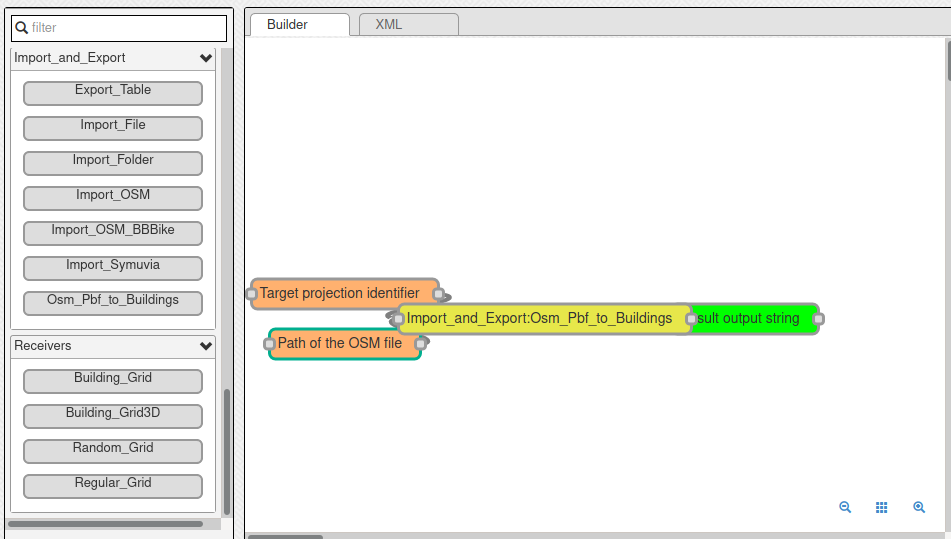
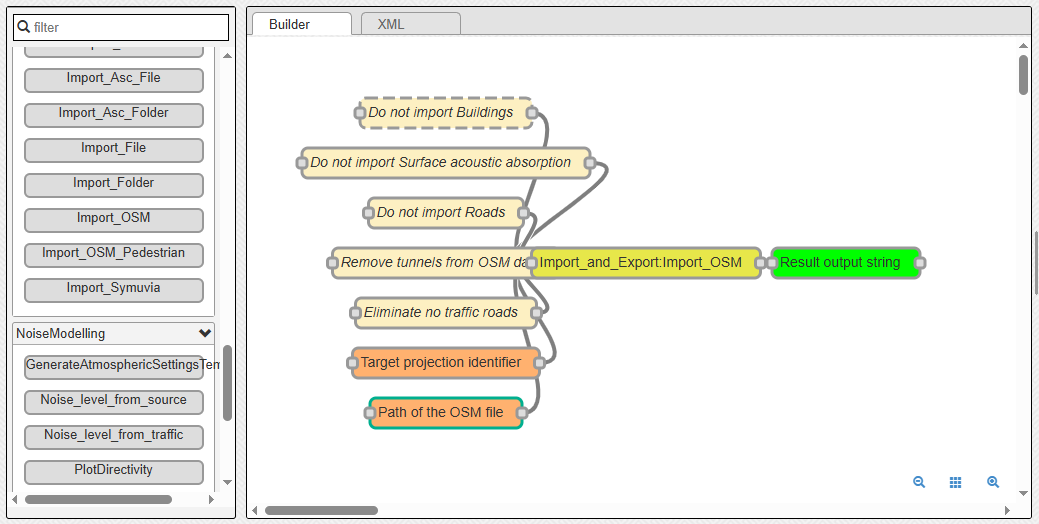
Update Matsim tutorial

Changed region(s): [[0.0, 0.0, 1.0, 1.0]]

diff --git a/Docs/Matsim_Tutorial.rst b/Docs/Matsim_Tutorial.rst
@@ -9,9 +9,9 @@ In this tutorial we will learn how to import the output of a successful MATSim s
 The idea is to use the traffic data from MATSim for NoiseModelling road noise emission.
 Then we will leverage the fact that MATSim is a multi-agent simulator. We will import MATSim agent's positions to calculate their noise exposition throughout the simulated day.
 
-For this tutorial, we'll look into a simulation of the `island in the center of Nantes`_, the 6th most populated city in France.
+For this tutorial, we'll look into a simulation of a small part of the `center of Nantes`_, the 6th most populated city in France.
 
-.. _island in the center of Nantes: https://www.openstreetmap.org/way/157597537
+.. _the center of Nantes: https://www.openstreetmap.org/way/45178361
 
 Prerequisites
 ~~~~~~~~~~~~~~~~~
@@ -25,29 +25,32 @@ Prerequisites
 The data
 ~~~~~~~~~~~~~~~
 
-You can download and unzip the data in any folder from here : https://github.com/Universite-Gustave-Eiffel/NoiseModelling/releases/download/v3.3.1/scenario_matsim.zip
+You can download and unzip the data in any folder from here : https://github.com/Symexpo/matsim-noisemodelling/releases/download/v5.0.0/scenario_matsim.zip
 
 The data folder should contain the following files :
 
-- ``nantes_ile.osm.pbf`` : the Openstreetmap data of the area. We'll use it to import buildings into NoiseModelling.
-- ``network.csv`` : A file containing the 'true' geometries of the road segments (called "links" in MATSim)
+- ``nantes_mini.osm.pbf`` : the Openstreetmap data of the area. We'll use it to import buildings into NoiseModelling.
+- ``detailed_network.csv`` : A file containing the 'true' geometries of the road segments (called "links" in MATSim)
 - ``output_events.xml.gz`` : A file containing the list of MATSim events from the simulation.
 - ``output_facilities.xml.gz`` : A file containing the list of facilities, the agent's activity locations.
 - ``output_network.xml.gz`` : A file containing the MATSim road network, a list of nodes and links.
-- ``output_plans.xml.gz`` : A file containing the list of agents and their final schedule, or plan.
+- ``output_plans.xml.gz`` : A file containing the list of agents and their final planned schedule.
+- ``output_experienced_plans.xml.gz`` : A file containing the list of agents and their final experienced schedule wich may differ from the inital planned one.
+- ``output_persons.csv.gz`` : A file containing the simple list of agents and some of there socioeconomic characteristics
 
 Step 1 : Import Buildings
 ~~~~~~~~~~~~~~~~~~~~~~~~~~~~~~~~~~~~~~~
 
 The first thing we're going to do is to import buildings.
-We use the ``Import_OSM`` WPS block to do that. Simply put the ``nantes_ile.osm.pbf`` path in the 'pathFile' input and set the 'SRID' input to `2154`_ *(which is the EPSG code for the french regulatory system)*.
+We use the ``Import_OSM`` WPS block to do that. There are several options. Put the ``nantes_mini.osm.pbf`` path in the 'pathFile' input and set the 'SRID' input to `2154`_ *(which is the EPSG code for the french regulatory system)*.
+Since we're only interested in buildings, you can also check the ``Do not import roads`` option as well as the ```Do not import Surface acoustic absorption`` option.
 
 .. _2154: https://epsg.io/2154
 
 .. figure:: images/matsim/osm_pbf_wps.png
    :align: center
 
-You should end up with a ``BUILDINGS`` table containing the island buildings.
+You should end up with a ``BUILDINGS`` table containing the city center buildings.
 
 .. figure:: images/matsim/buildings_table.png
    :align: center
@@ -61,28 +64,26 @@ To do that, we use the ``Traffic_From_Events`` WPS block.
 The mandatory inputs are :
 
 - ``folder`` : the path of the MATSim folder, here it is where you put the content of the ``scenario_matsim.zip`` file
-- ``timeSlice`` : wich represents the time period you want to aggregate the traffic data over. Here let's use the "quarter" option.
+
+An important option is ``The size of time bins in seconds`` which represents the time period you want to aggregate the traffic data over. Here let's use 900 to get data every 15 minutes.
 
 One optional but very important input is the ``Network CSV`` file path. The idea is that when the MATSim scenario was run, the link geometries were simplified to save computation time.
 This simplification of roads geometry is a bad thing for NoiseModelling since we take buidlings into account (simplified links can pass through buildings) and since source-receiver distance has a big impact on noise levels.
 That's why the ``network.csv`` file is given with the other data files. It contains the "real" geometry of links before MATSim simplification process (FYI, This is obtained by setting the 'outputDetailedLinkGeometryFile' option to a file name in the ``pt2matsim`` config file).
 
 An other important parameter is the ``populationFactor``. This corresponds to the downscaling factor that was used to generate the list of agents. Typically, this list of agents is generated based on the available census and survey data for an administrative area.
-Here, for our use case, the MAtsim scenario and it's agents were generated by using only 1% of the area total population (that is a population factor of 0.01).
+Here, for our use case, the Matsim scenario and it's agents were generated by using only 0,1% of the area total population (that is a population factor of 0.001).
 
 You can explore the other options by reading their descriptions. Here we are going to set them as follows:
 
-- Network CSV file: ``/path/to/your/scenario_matsim/network.csv``
-- Export additionnal traffic data ? : ``true``
-- Calculate All vehicles noise source ?: ``true``
-- Path of the matsim output folder: ``/path/to/your/scenario_matsim``
-- populationFactor: ``0.01``
-- Time Quantification: ``quarter``
+- Network CSV file: ``/path/to/your/scenario_matsim/detailed_network.csv``
+- Export additional traffic data ? : ``true``
+- Path of the Matsim output folder: ``/path/to/your/scenario_matsim``
+- populationFactor: ``0.001``
+- The size of time bins in seconds: ``900``
 - outTableName: "" (not set, use default)
 - Skip unused links ?: ``true``
 - Projection identifier: ``2154``
-- ignoreAgents: "" (not set)
-
 
 .. figure:: images/matsim/traffic_events_wps.png
    :align: center
@@ -132,7 +133,7 @@ Let's calculate all the receivers around our buildings using the ``Building_Grid
 
 - Buildings table table : ``BUILDINGS``
 - Distance between receivers : ``5.0``
-- height : ``4.0``
+- Height : ``4.0``
 
 That will place receviers around all the buildings, at 4 meter high and 5 meters apart.
 
@@ -162,8 +163,8 @@ In the end we want to have a noise map every 15 minutes (96 maps in total). If w
 
 So the process is as follows :
 
-1. we generate a SOURCE table, using the ``MATSIM_ROADS`` table.
-2. We use that table as input of the ``Noise_level_from_source`` WPS bloc and setting the ``confExportSourceId`` input paramter.
+1. we use the ``MATSIM_ROADS`` table as a SOURCE table. It only contains geometries, without any power levels, so the ``Noise_level_from_source`` bloc will compute acoustic attenuation by virtually attributing a power level of 0dB for every road link.
+2. We use the ``Noise_level_from_source`` WPS bloc and setting the ``confExportSourceId`` input paramter.
 
 The ``confExportSourceId`` parameter will actually ouput, for every recevier, the list of sources that contribute to the resulting levels, with the source-receiver noise attenuation.
 
@@ -174,7 +175,7 @@ Calculate the attenuation matrix
 
 Let's use the previously generated table to launch our propagation calculation.
 
-As explained before, we'll use the Noise_level_from_source WPS bloc with the 'confExportSourceId' parameter enabled.
+As explained before, we'll use the ``Noise_level_from_source`` WPS bloc with the ``Separate receiver level by source identifier`` parameter enabled.
 For more details about the different parameters, browse the NoiseModelling general documentation.
 
 The parameters we will use are the following :
@@ -203,7 +204,7 @@ Step 6 : Calculate Noise Maps
 ~~~~~~~~~~~~~~~~~~~~~~~~~~~~~~~~~~~~~~~~~~~~~~
 
 We have noise power levels every 15 minutes in the ``MATSIM_ROADS_LW`` table, and a source-receiver noise attenuation matrix in the ``RECEIVERS_LEVEL`` table.
-We just need to combine the two to get receivers noise levels, noise maps, every 15 minutes.
+We just need to combine the two to get receivers noise levels every 15 minutes.
 
 This is the purpose of the ``Noise_From_Attenuation_Matrix_MatSim`` WPS bloc.
 We just have set the right tables as input as follows :
@@ -212,10 +213,11 @@ We just have set the right tables as input as follows :
 - Output table name: ``RESULT_GEOM``
 - Table name of the MATSIM table containing the roads LW stats per timeBin: ``MATSIM_ROADS_LW``
 - Table name of the MATSIM table containing the roads geometries: ``MATSIM_ROADS``
+- Table name of the MATSIM table containing the receivers: ``ACTIVITY_RECEIVERS``
 
-.. figure:: images/matsim/noise_map_wps.png
+.. figure:: images/matsim/noise_from_attenuation_wps.png
    :align: center
-S
+
 It takes some time but in the end you should get a noise spectrum for every receiver every 15 minutes in the table ``RESULT_GEOM``.
 
 We have our noise maps !
@@ -274,4 +276,17 @@ And the final result, between 10h00 and 10h15 :
    :align: center
 
 
+Going Further
+---------------------
 
+Now maybe we just want to compute actual noise maps instead of just the noise levels at some specific points.
+In this case we'd want to use a different receiver grid using the ``Delaunay_Grid`` WPS bloc.
+
+Then we can use the same ``Noise_level_from_source`` and ``Noise_From_Attenuation_Matrix_MatSim`` WPS blocs to calculate the noise levels at every receiver at every timestep.
+
+If you then select a specific timeBin you can then run a ``Create_Isosurface`` WPS bloc to create a noise map.
+
+Here is an example of a noise map for the 10h00_10h15 time period :
+
+.. figure:: images/matsim/map_10h_qgis.png
+   :align: center
